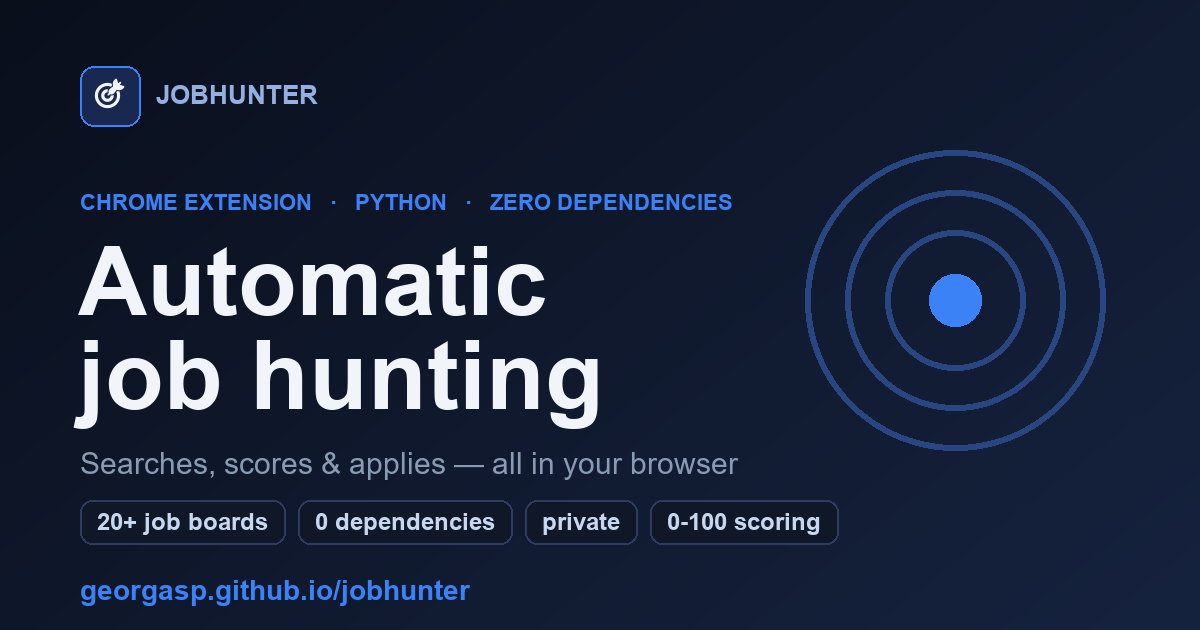
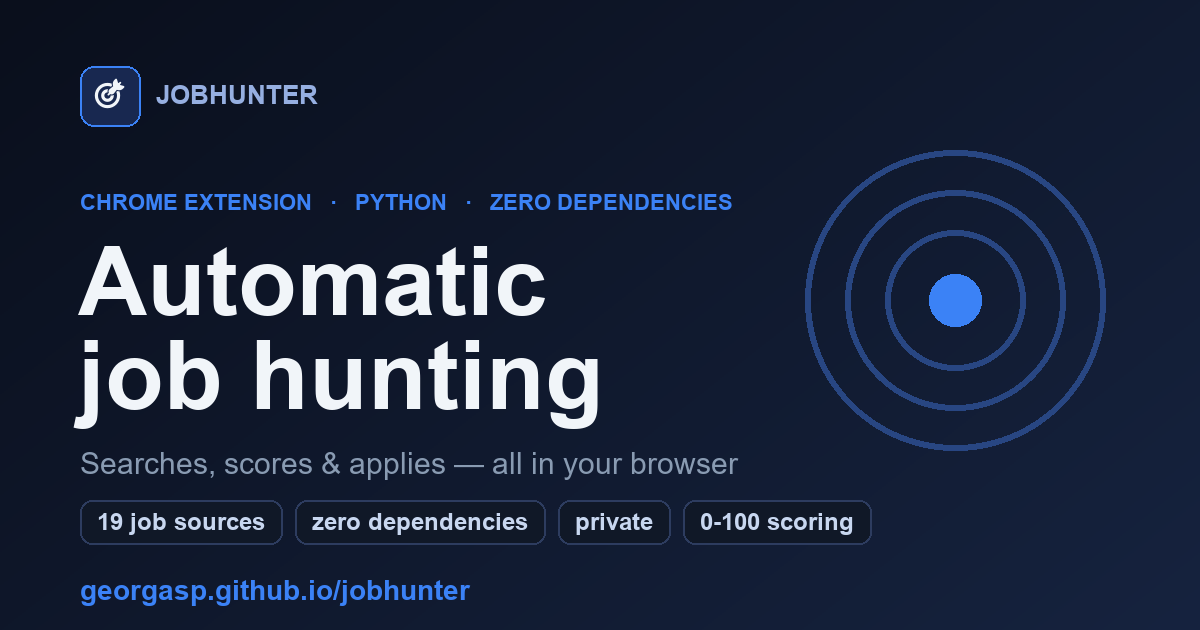
Correct source count in the social preview card
The OpenGraph text and image said "20+ job boards". The README and code list
10 job boards plus 9 ATS platforms (Greenhouse, Lever, Ashby, Workable,
SmartRecruiters, Recruitee, Workday, Teamtailor, Breezy), so say that.

Changed region(s): [[0.0617, 0.7841, 0.7092, 0.8746]]

diff --git a/docs/index.html b/docs/index.html
@@ -9,13 +9,13 @@
 <meta property="og:type" content="website">
 <meta property="og:url" content="https://georgasp.github.io/jobhunter/">
 <meta property="og:title" content="JobHunter — Automatic Job Hunting">
-<meta property="og:description" content="Upload your CV once. JobHunter searches 20+ job boards twice a day, scores what fits you (0–100), writes cover letters and fills application forms — all in your browser. Chrome extension + Python, zero dependencies.">
+<meta property="og:description" content="Upload your CV once. JobHunter searches 10 job boards and company career pages on 9 ATS platforms twice a day, scores what fits you (0–100), writes cover letters and fills application forms — all in your browser. Chrome extension + Python, zero dependencies.">
 <meta property="og:image" content="https://georgasp.github.io/jobhunter/og.png">
 <meta property="og:image:width" content="1200">
 <meta property="og:image:height" content="630">
 <meta name="twitter:card" content="summary_large_image">
 <meta name="twitter:title" content="JobHunter — Automatic Job Hunting">
-<meta name="twitter:description" content="Searches 20+ job boards, scores what fits, writes cover letters & fills forms — all in your browser. Zero dependencies.">
+<meta name="twitter:description" content="Searches 10 job boards + 9 ATS platforms, scores what fits, writes cover letters & fills forms — all in your browser. Zero dependencies.">
 <meta name="twitter:image" content="https://georgasp.github.io/jobhunter/og.png">
 <style>
   :root {
